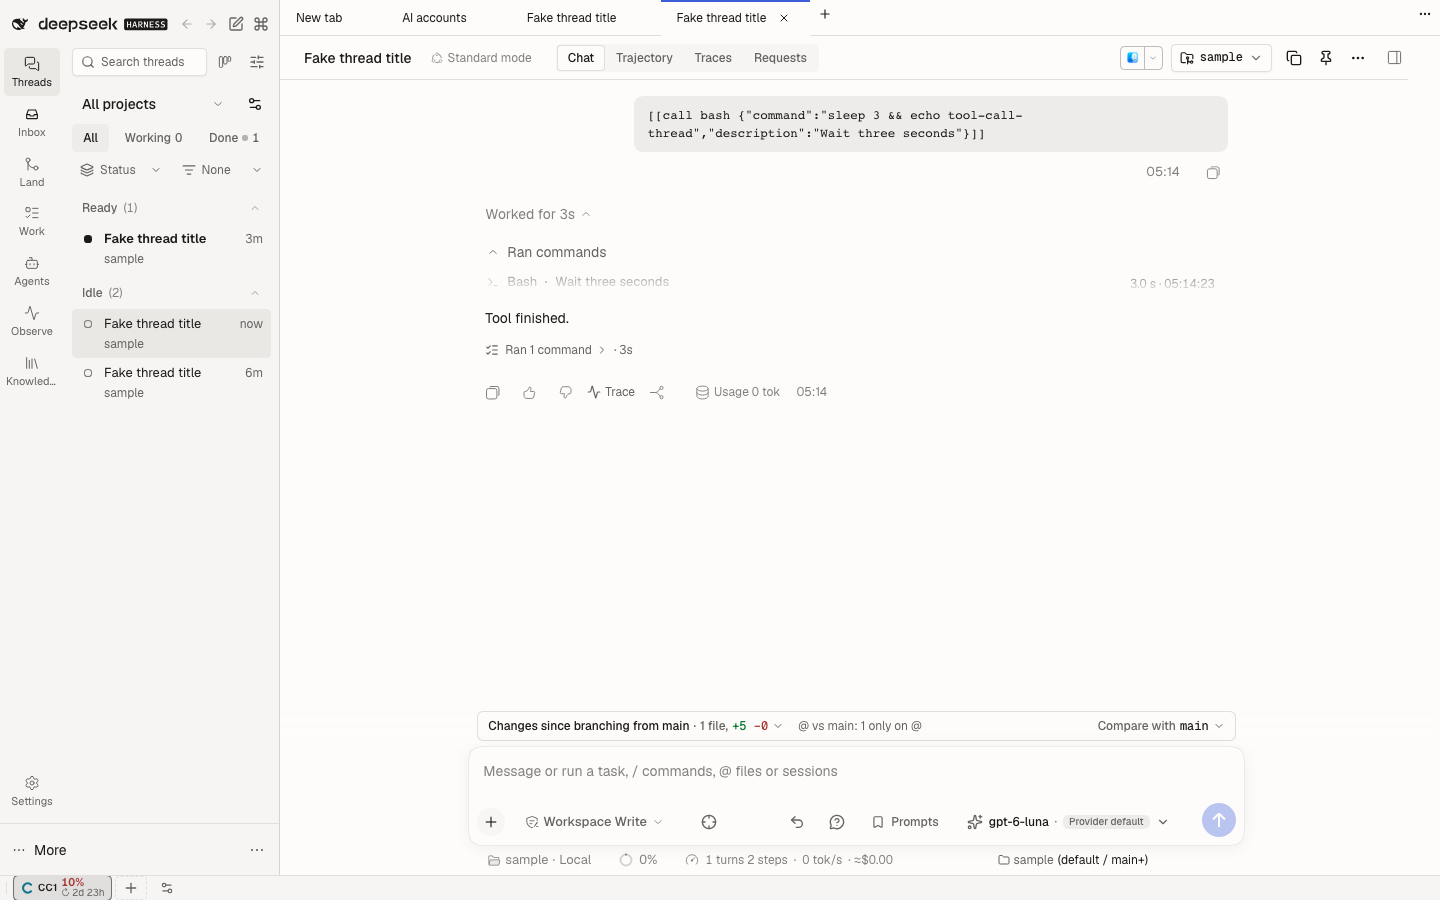
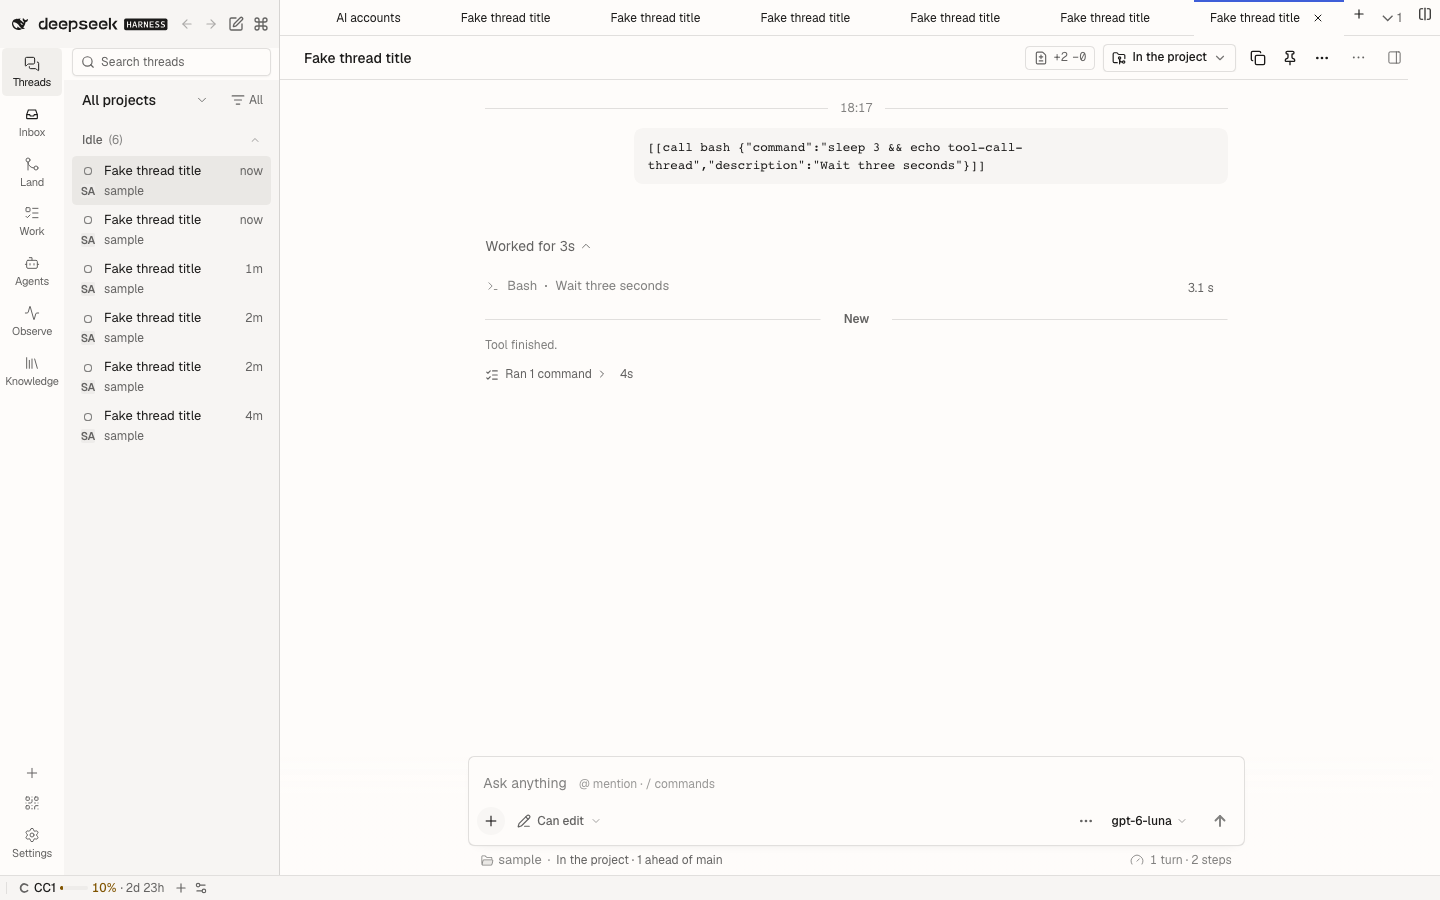
docs(tool-meta): refresh the timing screenshot
The capture still showed "1.2 s · 14:02" on a row; a row now shows the duration alone. Captured with the screenshots script from the scratch instance.

diff --git a/plugins/@dshfiles/tool-meta/README.md b/plugins/@dshfiles/tool-meta/README.md
@@ -1,6 +1,6 @@
 # @dshfiles/tool-meta
 
-![Tool timing and a live wait countdown](docs/screenshots/tool-call-timing.png)
+![How long a tool call took, at the right of its row](docs/screenshots/tool-call-timing.png)
 
 How long each tool call took, in the chat transcript: `1.2 s` at the right of the tool row, for native tools and plugin-owned ones, root calls and PTC children alike. A call under one second shows nothing, so the slow step stands out; hover a duration for the start time (the turn's time divider already gives the clock time, so rows do not repeat it). While a call runs the duration counts up every second. `job_output` waits and `background_jobs_wait` calls name what they are waiting for and show a live wait bar: a countdown against an explicit timeout when one is supplied, otherwise an indeterminate bar with elapsed time. The bar measures the wait, not the job's progress or expected completion. To interrupt a wait, steer or stop the turn with the existing composer controls. It also renders the file tool cards themselves: `read` on the shared `CodeBlock`, and `edit` / `write` / `apply_patch` on the shared `PatchView`; and the native approval request as a risk card in the composer.
 
